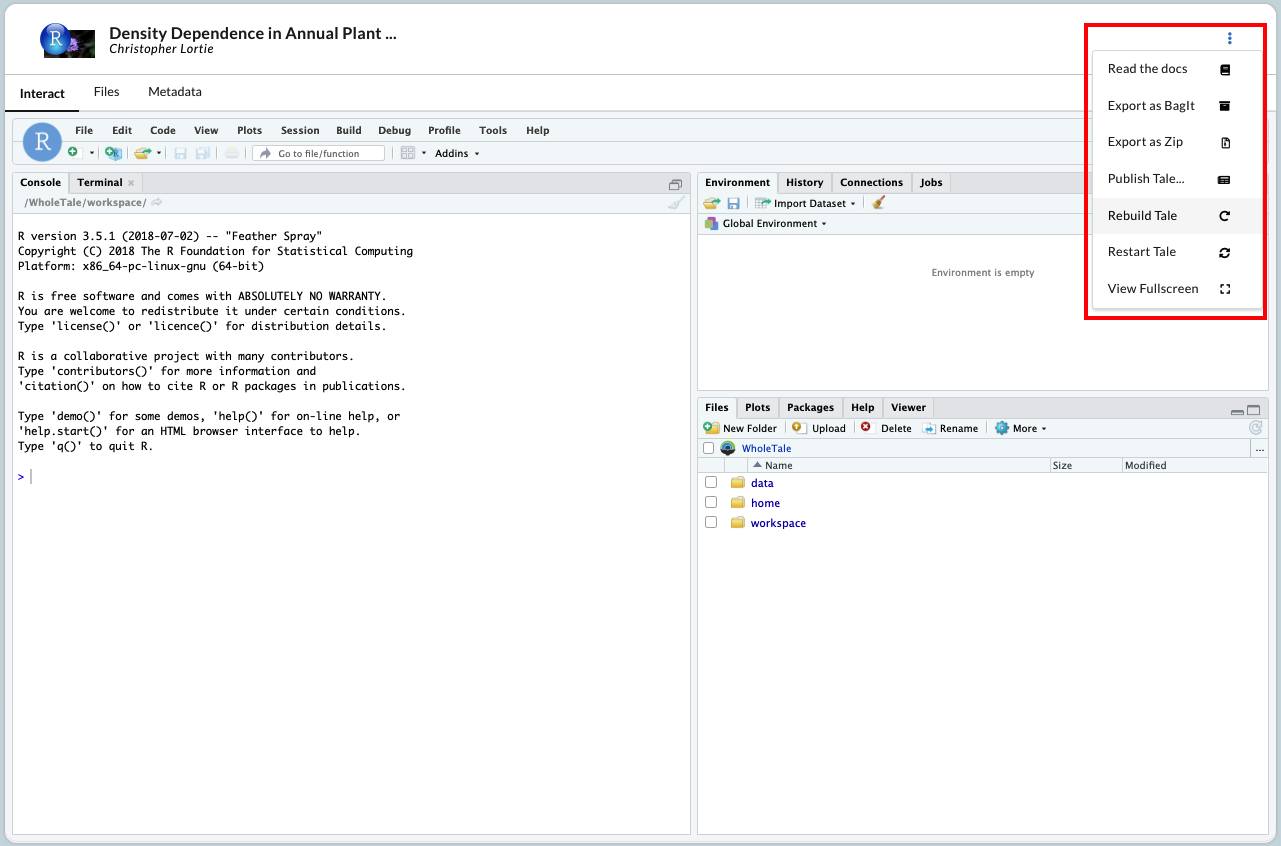
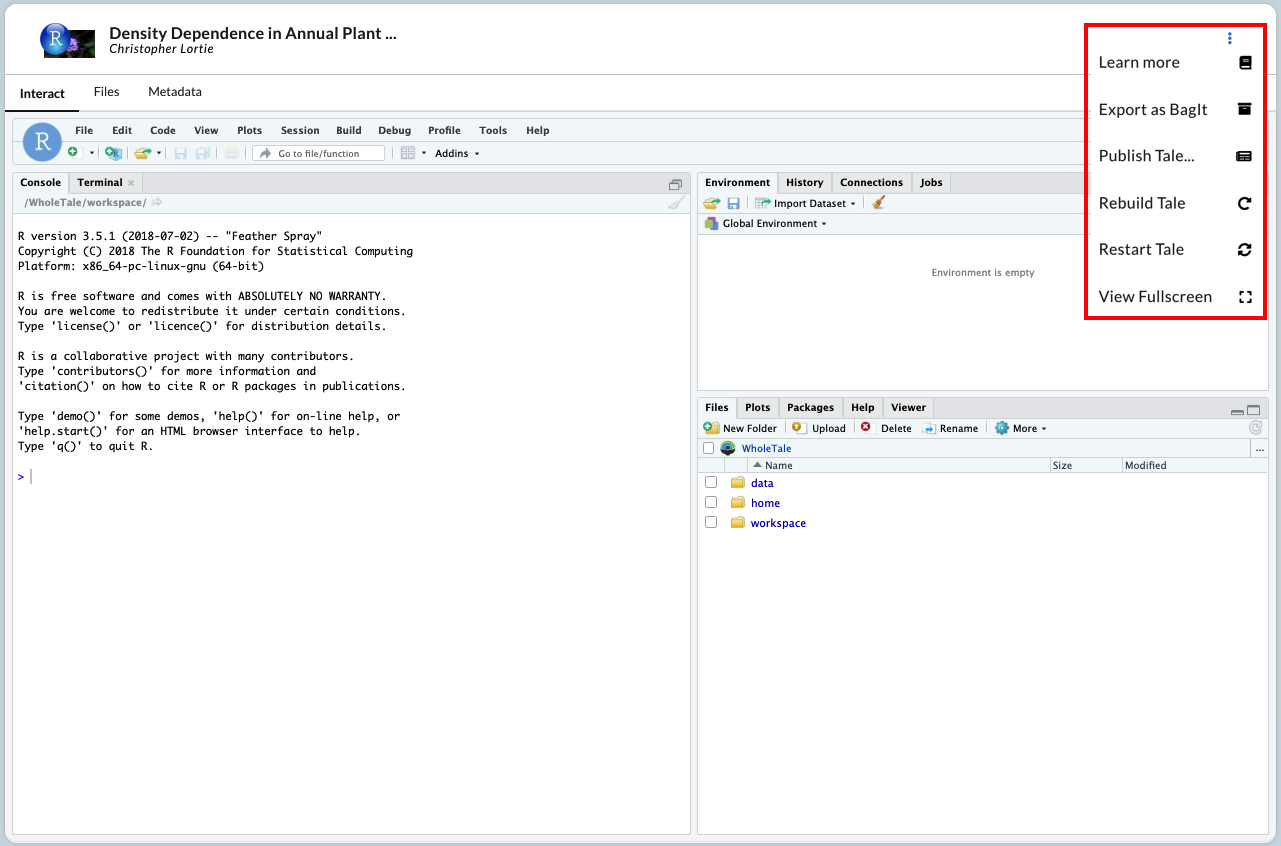
Minor updates to user guide

diff --git a/users_guide/run.rst b/users_guide/run.rst
@@ -20,7 +20,6 @@ with RStudio, shown below.
 
 .. image:: images/run/rstudio.png
      :align: center
-     :scale: 80%
 
 Each of the folders shown are analogous to the tabs under the **Files** tab. You can access all of your home files under the **home/** folder;
 data that was brought in from a third party service can be found under **data/**; files that were added to your workspace are found under **workspace/**.
@@ -32,7 +31,6 @@ presented with a typical Notebook interface.
 
 .. image:: images/run/jupyter_browse.png
      :align: center
-     :scale: 80%
 
 As with RStudio, data that came from external repositories can be found under **data/**, home directory files in **home/**, and workspace files in **workspace/**.
 
@@ -67,7 +65,6 @@ The Run page can also be used to access the Tale metadata editor, shown below.
 
 .. image:: images/run/metadata_editor.png
     :align: center
-    :scale: 80%
 
 The editor can be used to change the environment, add authors to the Tale, change the license, make the Tale public, and provide in in-depth description of the Tale.
 
@@ -85,13 +82,8 @@ these actions can be found in the Tale's action menu, highlighted in the image b
 Exporting a Tale
 ~~~~~~~~~~~~~~~~
 
-In the case that you want to save a Tale to your local machine, select your desired export format from the action menu.
-
-Exporting as a bag will allow you to run the Tale on your local machine, and may be more suitable for
+In the case that you want to save a Tale to your local machine, select your **Export as BagIt" from the action menu. This will allow you to run the Tale on your local machine, and may be more suitable for
 long term storage.
-
-Exporting as a zip file lacks the feature of being able to run locally, but is a good option if you want easy access to the
-data and code in the Tale.
 
 Publishing a Tale
 ~~~~~~~~~~~~~~~~~

diff --git a/users_guide/quickstart.rst b/users_guide/quickstart.rst
@@ -14,7 +14,7 @@ usage scenarios:
 
 Launching a tale
 ----------------
-In this example, you'll launch the LIGO Tutorial Tale which runs in Jupyter Notebook:
+In this example, you'll launch the LIGO Tutorial Tale which runs in a classic Jupyter Notebook environment:
 
 1. Go to the **Browse** page and search for "LIGO". Select the **Launch** button. 
    This will start your instance of the LIGO tale.
@@ -92,9 +92,8 @@ To do this, navigate to the **Manage** page from the top menu bar.
 
 .. figure:: images/quickstart/manage_page.png
      :align: center
-     :scale: 50
 
-     The Manage page where you can edit datasets
+     The Manage page where you can register external datasets
 
 4. Click the blue 'Plus' icon on the Data tab, shown on the left hand side of the page.
 
@@ -103,7 +102,6 @@ To do this, navigate to the **Manage** page from the top menu bar.
 
 .. figure:: images/quickstart/watertale_register_dataone.png
      :align: center
-     :scale: 50
 
      Registering a DataONE dataset by DOI
 
@@ -115,7 +113,6 @@ should appear under your **Data** folder.
 
 .. figure:: images/quickstart/watertale_data.png
      :align: center
-     :scale: 50
 
      The Tale information view about included files
 
@@ -126,7 +123,6 @@ should appear under your **Data** folder.
 
 .. figure:: images/quickstart/watertale_select_dataset.png
      :align: center
-     :scale: 50
 
      Adding the registered dataset to your Tale
 

diff --git a/users_guide/features.rst b/users_guide/features.rst
@@ -6,24 +6,24 @@ Features and Limitations
 Key system features of v0.8:
 
 - Authentication using Globus Auth
-- Ability to compose and run tales using Jupyter and RStudio environments
+- Ability to compose and run tales using Jupyter and RStudio (Rocker) environments
 - Ability to compose tales using data from published sources via HTTP URL 
   or Digital Object Identifier (DOI). Note that with this release, DOIs 
-  are only supported for `DataONE <https://search.dataone.org/>`_ and 
+  are supported for `DataONE <https://search.dataone.org/>`_, `Dataverse network
+  members <https://dataverse.org/>`_, and 
   the `Materials Data Facility (MDF) <https://www.materialsdatafacility.org/>`_
 - Ability to share tales with users in the system
 - Home directories (personal data shared across tale environments)
 - Local registry of Docker images used in the system
 - System monitoring and daily backups of user data  
 - Ability to publish Tales to DataONE
-- Ability to export Tales to zip and bagit, and then run locally
+- Ability to export Tales to BagIt (zip archive), and run locally
 
 Upcoming features:
-
-- Framework for tale validation
+- Publish to Dataverse and Zenodo
+- Register data from Tapis/Agave providers
 - Ability to create and remix tale environments
 - Provenance capture
-- Publishing to Dataverse
 
 For a complete list of current and planned features, see the
 :ref:`release schedule <milestones>`.

diff --git a/users_guide/compose.rst b/users_guide/compose.rst
@@ -6,12 +6,17 @@ Creating New Tales
 The **New Tale Dialog** allows you to create new tales that can be executed and 
 shared with others.
 
+.. figure:: images/compose/create_new_tale.png
+     :align: center
+
+     Create New Tale window`
+
 .. _environment-section:
 
 Environments
 ------------
-On the right hand side of the screen there is a list of environments that
-have programming frontends inside. For example, the **RStudio** Environment
+The **Create New Tale** window includes a drop-down list of available
+environment that have programming frontends inside. For example, the **RStudio** Environment
 is bundled with RStudio while the **Jupyter Notebook** Environment is bundled
 with Python and Jupyter Notebook. You'll want to pick the appropriate
 Environment that supports the language that you're working in.
@@ -38,7 +43,6 @@ documented on the `run page`_.
 
 .. figure:: images/compose/tale_launching.png
      :align: center
-     :scale: 60%
 
      A tale that is being created and configured.
 

diff --git a/users_guide/scenarios.rst b/users_guide/scenarios.rst
@@ -20,7 +20,3 @@ A user follows the introductory tutorial to learn how to create a Tale in the Wh
 Publishing a Tale
 -----------------
 A scientist did research within Whole Tale and wants to publish their results with a DOI. Once their analysis is complete, any additional Tale metadata should be entered in the metadata tab on the Run page. When ready to publish, the researcher can select `Publish` from the three-dot dropdown menu on the Run page. Once signed into DataONE, the researcher can choose which repository they wish to publish to. Once published, they can view the location of their package on the metadata page.
-
-Creating a new frontend
------------------------
-Release v0.7 will support the ability for users to create new frontends for use in the Whole Tale system.

diff --git a/users_guide/browse.rst b/users_guide/browse.rst
@@ -47,10 +47,6 @@ Tales that are shown on this page can be accessed by the public. To interact wit
 **Run Tale**. If you don't own the Tale, you'll be asked if you'd like to create a copy. Once created, you'll be brought
 to the **Run** page where you can interact with the experiment in the environment.
 
-Launched Tales
---------------
-See :ref:`Launched Tales <launched-tales>`.
-
 
 .. _operations-for-creators:
 

diff --git a/users_guide/export_run.rst b/users_guide/export_run.rst
@@ -14,7 +14,6 @@ To export a Tale, navigate to the Run page, select the ``...`` dropdown menu, an
 
 .. figure:: images/export_run/export-tale.gif
      :align: center
-     :scale: 80%
      
      Exporting a Tale
 
